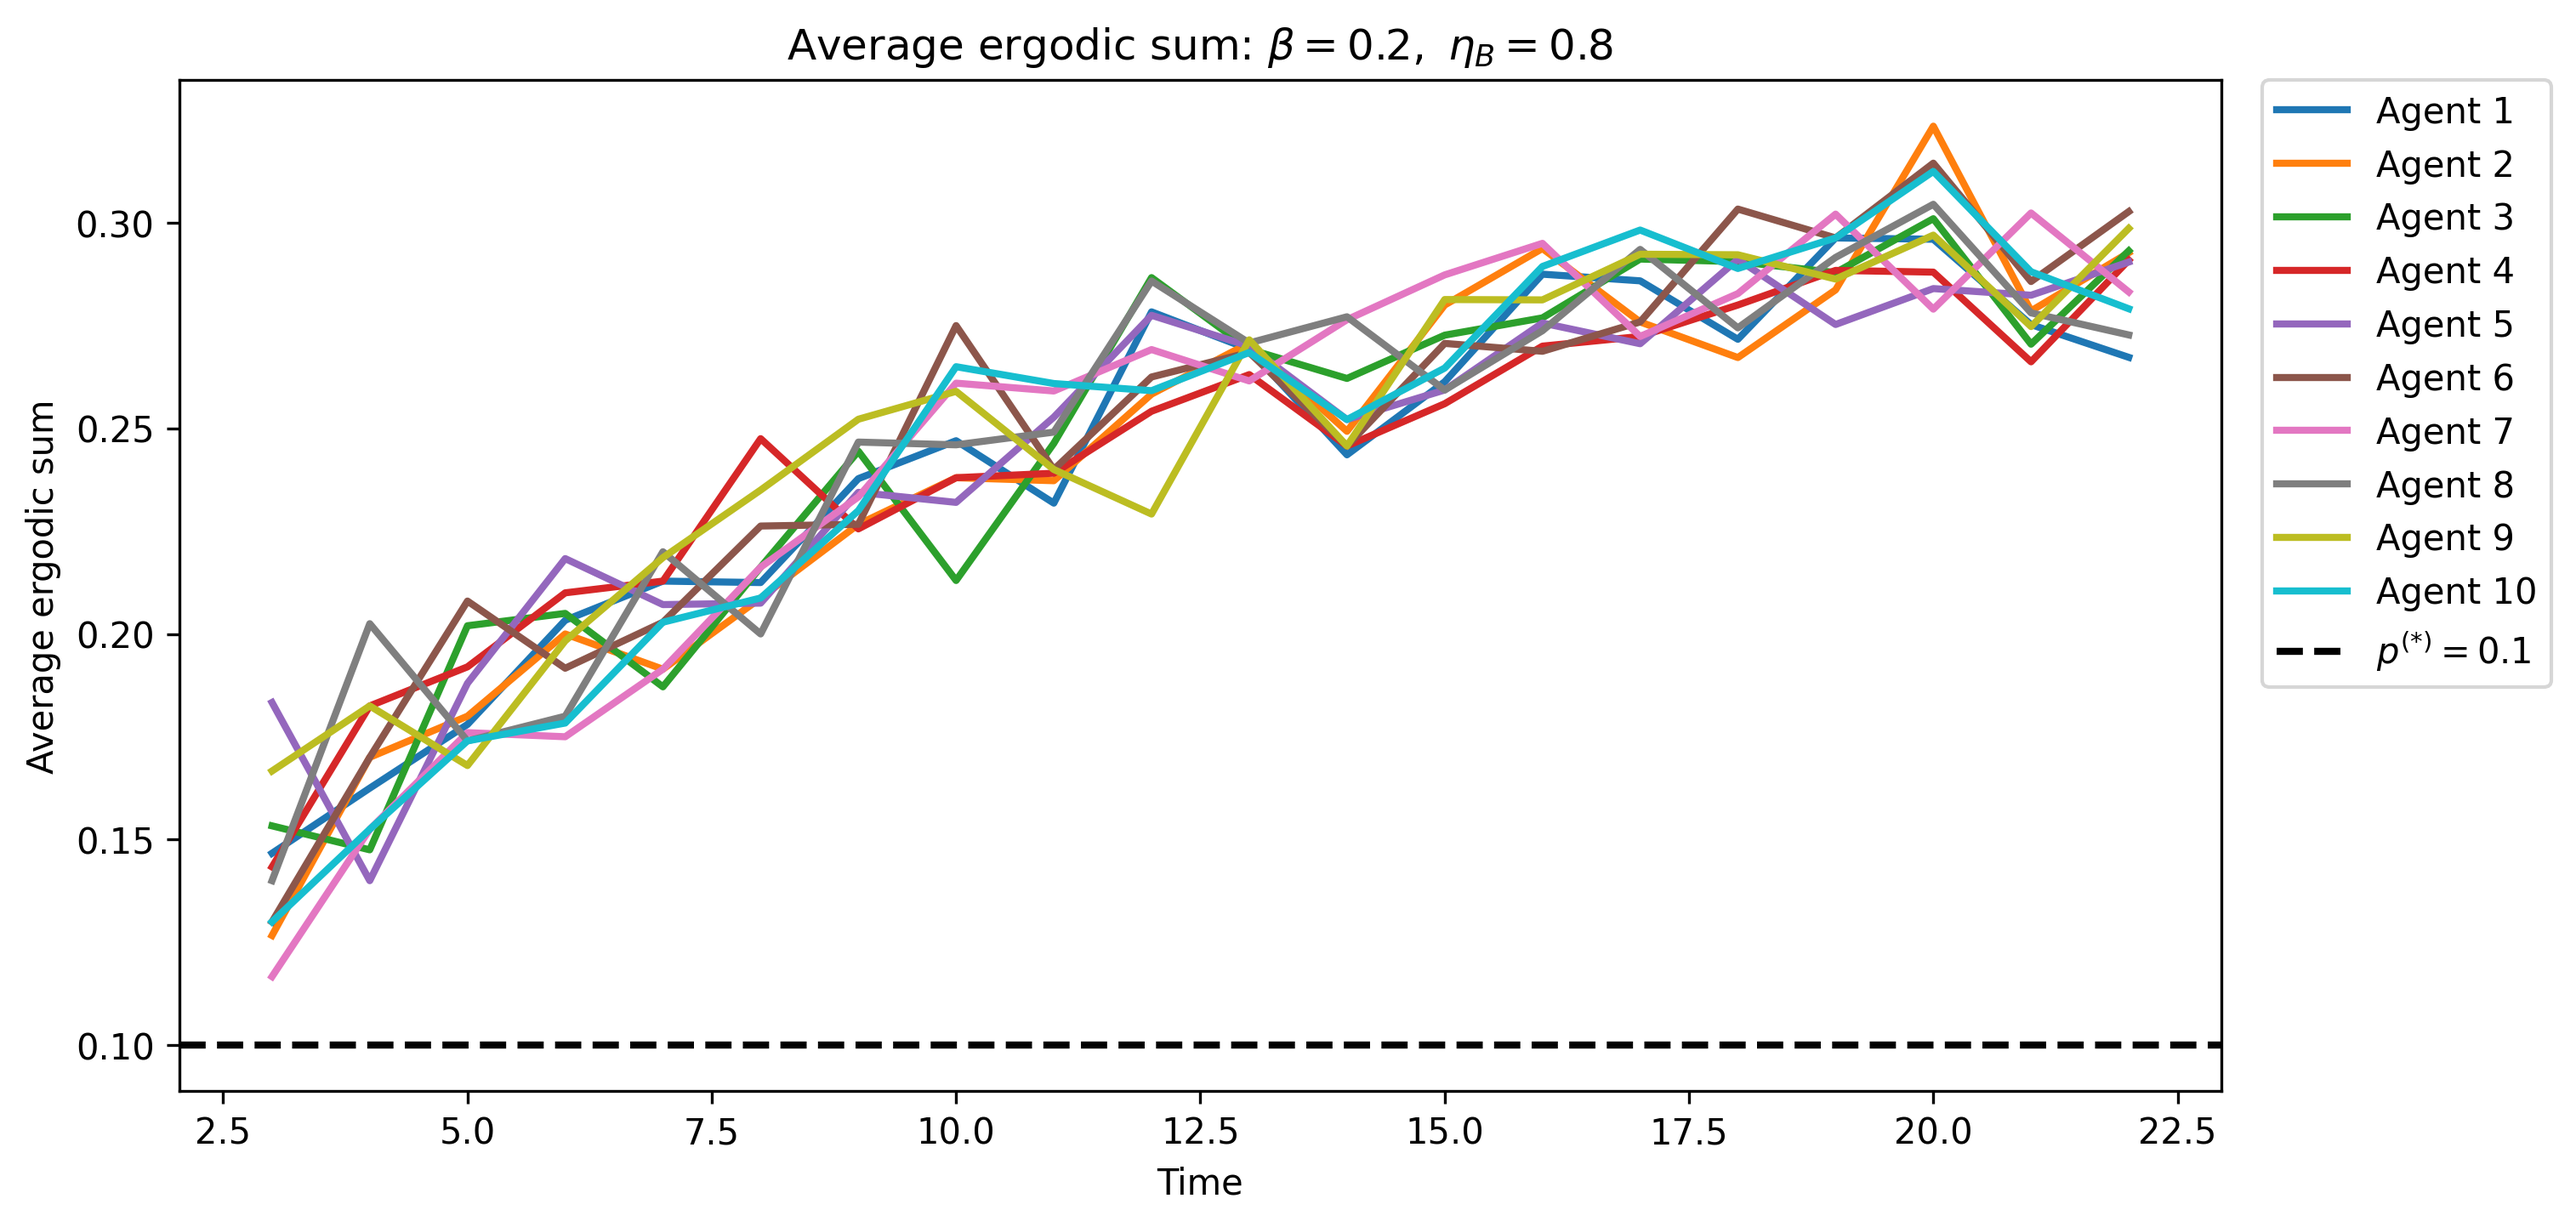
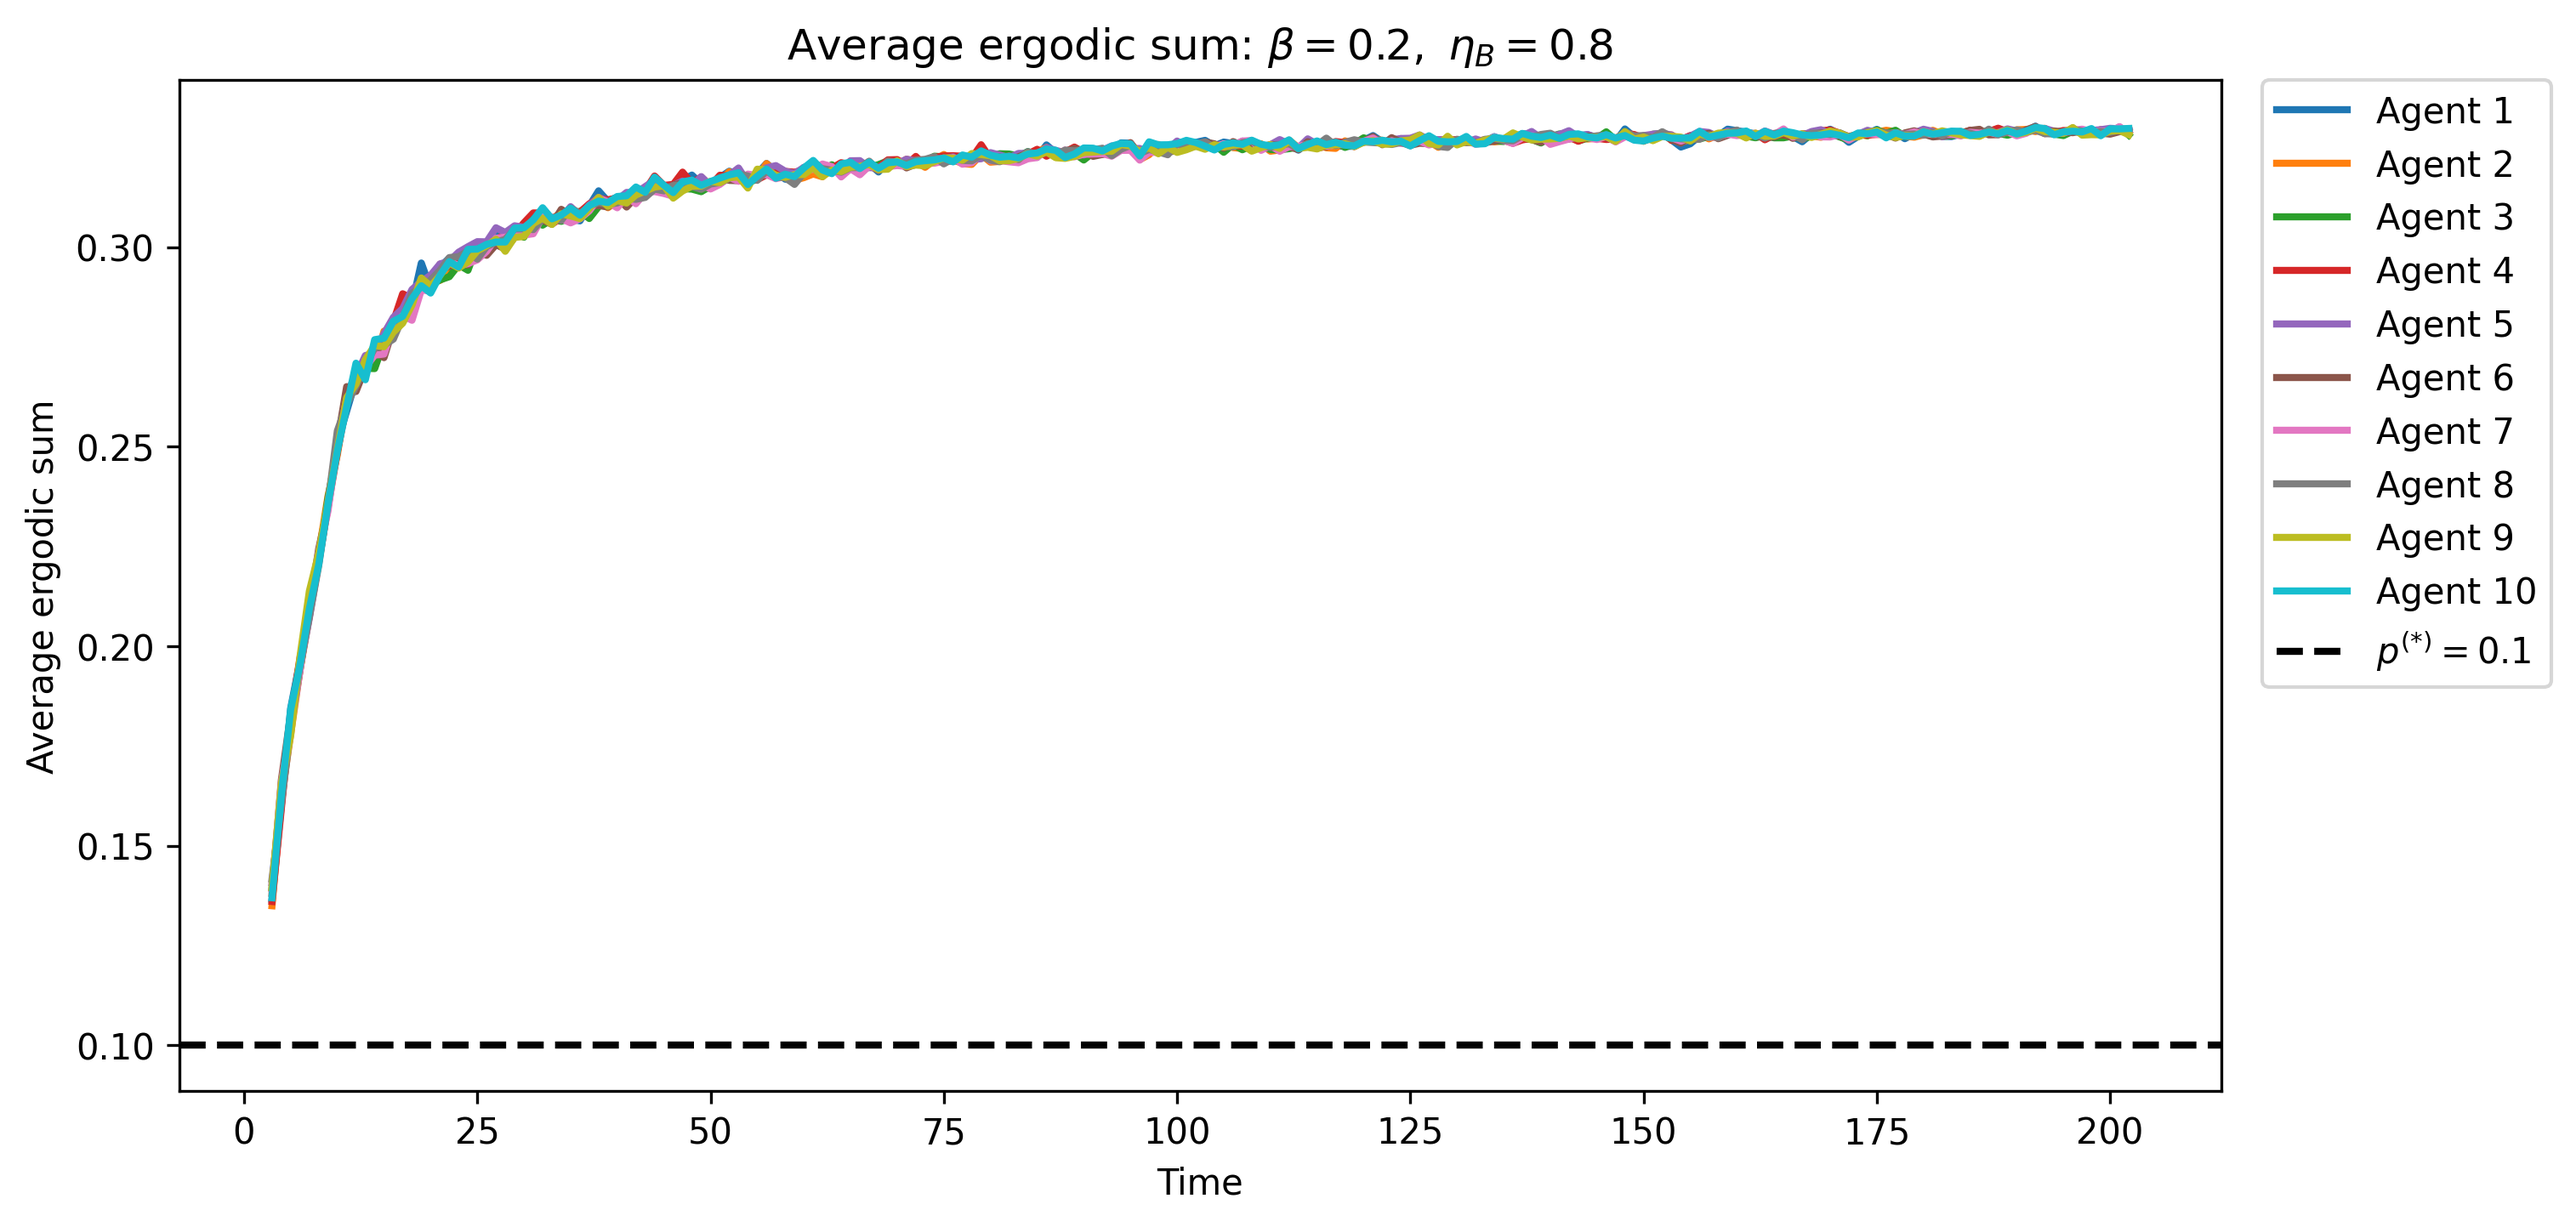
added bot simulation for non homogeneous case

diff --git a/src/simulations/non_homo_bot_empirical.py b/src/simulations/non_homo_bot_empirical.py
@@ -15,8 +15,8 @@ Time = 200
 # Generate model ingredients
 # ==================================================
 
-c1 = 0.05 * np.ones(N)
-c2 = 0.1 * np.ones(N)
+c1 = np.load("data/c1_N10_M5.npy")
+c2 = np.load("data/c2_N10_M5.npy")
 
 A = np.load("data/A_N10_M5.npy")
 memory_sets = generate_memory_sets(
@@ -50,7 +50,7 @@ for horizon in range(3, Time + 3):
             c2=c2,
             memory_sets=memory_sets,
             beta =0.20,
-            eta = 0.8,
+            eta = 0.5,
             rng=rng,
         )
 
@@ -66,7 +66,7 @@ for horizon in range(3, Time + 3):
 )
 #save the empirical sum data
 np.save(
-    "data/all_means_N10_M5_homo_bot.npy",all_means
+    "data/all_means_N10_M5_nonhomo_bot.npy",all_means
 )
 
 # ==================================================
@@ -104,11 +104,11 @@ plt.tight_layout()
 plt.xlabel("Time")
 plt.ylabel("Average ergodic sum")
 plt.title(
-    rf"Average ergodic sum: $\beta = 0.2,\ \eta_B = 0.8$"
+    rf"Average ergodic sum: $\beta = 0.2,\ \eta_B = 0.5$"
 )
 
 plt.savefig(
-    "figures/all_means_N10_M5_homo_bot.png",
+    "figures/all_means_N10_M5_nonhomo_bot.png",
     dpi=300,
     bbox_inches="tight"
 )

diff --git a/src/models/od_model.py b/src/models/od_model.py
@@ -269,7 +269,7 @@ def simulate_trajectory_bot(
     c2,
     memory_sets,
     beta=0.20,
-    eta=0.8,
+    eta=0.5,
     rng=None,
 ):
     """
